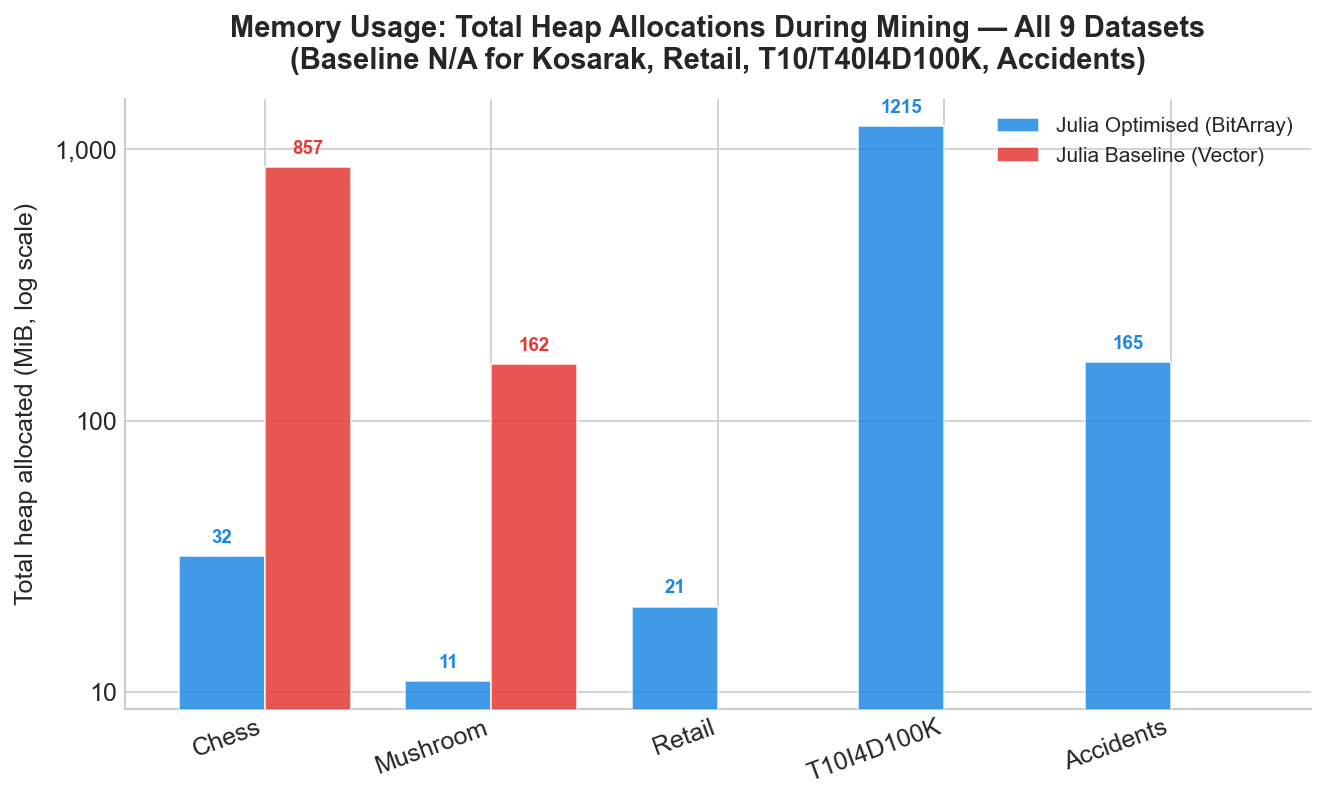
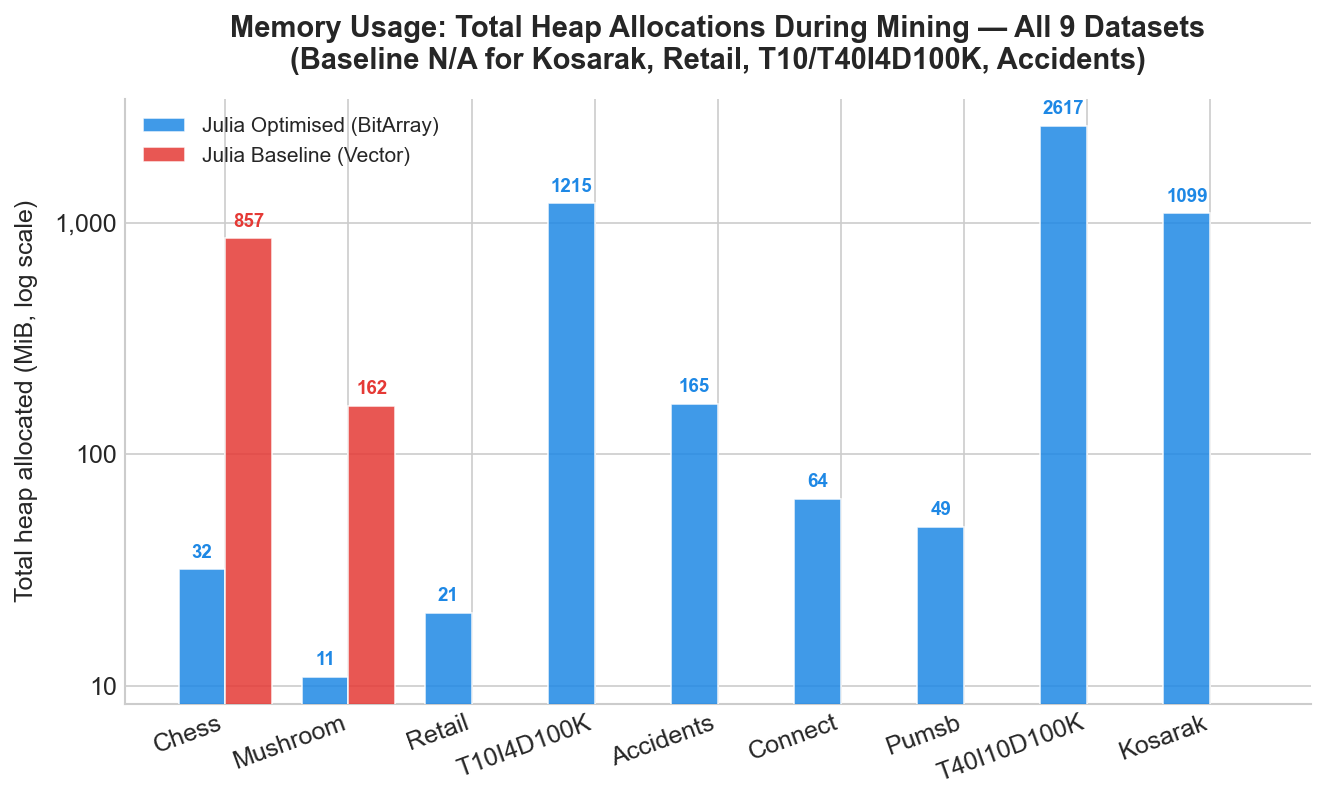
docs: number formulas, add Hypercube code, fill memory benchmark for Connect/Pumsb/T40I10D100K/Kosarak
Address advisor feedback on the LCMFreq slide deck: equation-number all
genuine math formulas and add a real code snippet for HypercubeDecomposition
where only the diagram existed before. Also run the missing memory-usage
benchmark rows and regenerate the memory chart from the completed CSV.

diff --git a/slide/new_slides.tex b/slide/new_slides.tex
@@ -43,14 +43,31 @@
 \setbeamercolor{block body alerted}{bg=accent!6}
 \setbeamercolor{palette primary}{bg=deepblue}
 \setbeamerfont{title}{size=\Large,series=\bfseries}
+\setbeamerfont{subtitle}{size=\small}
+\setbeamerfont{author}{size=\small}
+\setbeamerfont{institute}{size=\footnotesize}
+\setbeamerfont{date}{size=\footnotesize}
 \setbeamerfont{frametitle}{size=\normalsize,series=\bfseries}
 \metroset{sectionpage=progressbar}
+\setbeamertemplate{title page}{%
+  \vspace*{0.7cm}
+  {\usebeamerfont{title}\usebeamercolor[fg]{title}\inserttitle\par}
+  \vspace{0.35cm}
+  {\usebeamerfont{subtitle}\usebeamercolor[fg]{subtitle}\insertsubtitle\par}
+  \vspace{0.55cm}
+  {\usebeamerfont{author}\insertauthor\par}
+  \vspace{0.2cm}
+  {\usebeamerfont{institute}\insertinstitute\par}
+  \vspace{0.2cm}
+  {\usebeamerfont{date}\insertdate\par}
+}
 
 % ---- Macros ----------------------------------------------------------
 \newcommand{\hl}[1]{\textcolor{accent}{\textbf{#1}}}
 \newcommand{\key}[1]{\textcolor{deepblue}{\textbf{#1}}}
 \newcommand{\tc}[1]{\textcolor{teal}{#1}}
 \newcommand{\opt}[1]{\textcolor{optgreen}{\textbf{#1}}}
+\newcommand{\tikzmark}[1]{\tikz[remember picture,overlay,baseline]\coordinate (#1);}
 
 % ---- Listings --------------------------------------------------------
 \lstdefinelanguage{JuliaLite}{
@@ -66,6 +83,7 @@
   commentstyle=\color{black!50},
   stringstyle=\color{teal},
   columns=fullflexible,
+  escapeinside={(*@}{@*)},
   keepspaces=true,
   showstringspaces=false,
   frame=single,
@@ -104,7 +122,7 @@
 
 \begin{frame}{Nội dung trình bày}
   \setbeamertemplate{section in toc}[sections numbered]
-  \tableofcontents[hideallsubsections]
+  {\scriptsize\tableofcontents[hideallsubsections]}
 \end{frame}
 
 % ===================================================================
@@ -244,6 +262,7 @@ BackTracking(P):
 
 \begin{frame}{Ba kỹ thuật của LCMFreq trên khung Backtracking}
   \centering
+  \resizebox{0.92\linewidth}{!}{%
   \begin{tikzpicture}[font=\footnotesize, node distance=0.5cm]
     \node[box=deepblue,minimum width=2.2cm] (p) at (0,0) {$P$};
     \node<2->[boxt={teal}{teal!12},minimum width=2.6cm,right=1.4cm of p] (bucket)
@@ -256,10 +275,10 @@ BackTracking(P):
     \draw<2->[arrow=teal] (p) -- node[above]{\scriptsize Occ.Deliver} (bucket);
     \draw<3->[arrow=skyblue] (bucket) -- node[above]{\scriptsize cùng support} (h);
     \draw<4->[arrow=optgreen] (h) -- node[above]{\scriptsize Hypercube} (out);
-  \end{tikzpicture}
+  \end{tikzpicture}}
 
-  \vspace{0.6em}
-  \begin{itemize}
+  \vspace{0.05em}
+  \begin{itemize}\setlength\itemsep{0.15em}
     \item \key{1. Backtracking}: prefix $P$, chỉ thêm $e>\mathrm{tail}(P)$.
     \item<2-> \tc{2. OccurrenceDeliver}: duyệt $\mathcal T(P)$ một lần, rải vào bucket
       của mọi candidate cùng lúc.
@@ -273,10 +292,10 @@ BackTracking(P):
 % ===================================================================
 
 \begin{frame}{Down project: giao hai danh sách TID bằng hai con trỏ}
-  \[
+  \begin{equation}
     \mathcal T(P_1\cup P_2)=\mathcal T(P_1)\cap\mathcal T(P_2)
     \quad\text{tính trong } O(|\mathcal T(P_1)|+|\mathcal T(P_2)|)
-  \]
+  \end{equation}
   \centering
   \begin{tikzpicture}[font=\small]
     % T1 row
@@ -291,17 +310,17 @@ BackTracking(P):
     }
     % output row placeholder
     \node[font=\scriptsize\bfseries] at (-1.0,-1.85) {Giao};
-    \node<2->[bucket,minimum width=1.6cm] (o3) at (1.35,-1.85) {3};
-    \node<3->[bucket,minimum width=1.6cm] (o5) at (2.7,-1.85) {5};
-    \node<5->[bucket,minimum width=1.6cm] (o9) at (5.4,-1.85) {9};
+    \node<2->[bucket,minimum width=1.05cm] (o3) at (1.10,-1.85) {3};
+    \node<3->[bucket,minimum width=1.05cm] (o5) at (2.75,-1.85) {5};
+    \node<5->[bucket,minimum width=1.05cm] (o9) at (4.40,-1.85) {9};
 
     % pointers i,j: exact-slide so each step shows only current position
-    \node<1>[ptr] at (0,1.05) {$\blacktriangle$}; \node<1>[ptr] at (0,-0.9) {$\blacktriangledown$};
-    \node<2>[ptr] at (1.35,1.05) {$\blacktriangle$}; \node<2>[ptr] at (0,-0.9) {$\blacktriangledown$};
-    \node<3>[ptr] at (2.7,1.05) {$\blacktriangle$}; \node<3>[ptr] at (1.35,-0.9) {$\blacktriangledown$};
-    \node<4>[ptr] at (4.05,1.05) {$\blacktriangle$}; \node<4>[ptr] at (2.7,-0.9) {$\blacktriangledown$};
-    \node<5>[ptr] at (4.05,1.05) {$\blacktriangle$}; \node<5>[ptr] at (4.05,-0.9) {$\blacktriangledown$};
-    \node<6>[ptr] at (5.4,1.05) {$\blacktriangle$}; \node<6>[ptr] at (4.05,-0.9) {$\blacktriangledown$};
+    \node<1>[ptr] at (0,0.82) {$\blacktriangle$}; \node<1>[ptr] at (0,-1.12) {$\blacktriangledown$};
+    \node<2>[ptr] at (1.35,0.82) {$\blacktriangle$}; \node<2>[ptr] at (0,-1.12) {$\blacktriangledown$};
+    \node<3>[ptr] at (2.7,0.82) {$\blacktriangle$}; \node<3>[ptr] at (1.35,-1.12) {$\blacktriangledown$};
+    \node<4>[ptr] at (4.05,0.82) {$\blacktriangle$}; \node<4>[ptr] at (2.7,-1.12) {$\blacktriangledown$};
+    \node<5>[ptr] at (4.05,0.82) {$\blacktriangle$}; \node<5>[ptr] at (4.05,-1.12) {$\blacktriangledown$};
+    \node<6>[ptr] at (5.4,0.82) {$\blacktriangle$}; \node<6>[ptr] at (4.05,-1.12) {$\blacktriangledown$};
   \end{tikzpicture}
 
   \vspace{0.4em}
@@ -321,11 +340,11 @@ BackTracking(P):
 \begin{frame}{Vấn đề khi áp dụng down project cho Backtracking}
   Backtracking luôn thêm \emph{đúng một item} mỗi lượt $\Rightarrow$ cặp tách
   duy nhất khả dụng là $P_1=P$, $P_2=\{e\}$. Với $k$ candidate $e>\mathrm{tail}(P)$:
-  \[
+  \begin{equation}
     O\!\left(\sum_{e>\mathrm{tail}(P)} \bigl(|\mathcal T(P)|+|\mathcal T(\{e\})|\bigr)\right)
-  \]
+  \end{equation}
   \centering
-  \begin{tikzpicture}[font=\scriptsize]
+  \begin{tikzpicture}[font=\scriptsize,scale=0.82,transform shape]
     \foreach \name/\x/\h/\col in {B/0/1.6/skyblue, C/1.6/1.4/teal, D/3.2/1.2/accent} {
       \draw[fill=\col!20,draw=\col] (\x,0) rectangle (\x+1.2,\h);
       \node at (\x+0.6,\h+0.25) {$|T(P)|{+}|T(\{\name\})|$};
@@ -351,9 +370,10 @@ OccurrenceDeliver(D, P):
           insert t into Bucket[e]
   # Bucket[e] = T(P union {e})
 \end{lstlisting}
-      \small\[
+      \small
+      \begin{equation}
         O\!\Bigl(|\mathcal T(P)|+\!\!\sum_{e>\mathrm{tail}(P)}\!\!|\mathcal T(P\cup\{e\})|\Bigr)
-      \]
+      \end{equation}
     \end{column}
     \begin{column}{0.55\textwidth}
       \centering
@@ -383,11 +403,11 @@ OccurrenceDeliver(D, P):
 
 \begin{frame}{Bất biến sau khi deliver}
   \begin{block}{Bất biến cần nhớ}
-    \[
+    \begin{equation}
       \mathrm{Bucket}[e]=\{t\in\mathcal T(P): e\in t\}=\mathcal T(P\cup\{e\})
       \quad\Rightarrow\quad
       \mathrm{sup}(P\cup\{e\})=|\mathrm{Bucket}[e]|
-    \]
+    \end{equation}
   \end{block}
   \small Bucket \emph{là} denotation của $P\cup\{e\}$ — dùng được ngay cho:
   kiểm tra minsup, đệ quy tiếp, và (slide sau) phát hiện item miễn phí trong
@@ -407,20 +427,34 @@ OccurrenceDeliver(D, P):
 \section{HypercubeDecomposition}
 % ===================================================================
 
-\begin{frame}{$H(P)$: item miễn phí và xuất theo lô}
+\begin{frame}[fragile]{$H(P)$: item miễn phí và xuất theo lô}
   \begin{block}{Định nghĩa (Uno et al., 2004, Mục 3.3)}
     \small $H(P)=\{e>\mathrm{tail}(P): \mathcal T(P)=\mathcal T(P\cup\{e\})\}$.
     Kiểm tra $e\in H(P)$ chỉ cần so độ dài: $|\mathrm{Bucket}[e]|=|\mathcal T(P)|$
     — \emph{đã có sẵn} sau OccurrenceDeliver.
   \end{block}
 
-  \centering
-  \begin{tikzpicture}[font=\scriptsize, node distance=0.5cm]
-    \node[box=deepblue,minimum width=2.4cm] (p) {$P$, $S'=S\cup H(P)$};
-    \node<2->[box=optgreen,minimum width=5.6cm,below=0.7cm of p]
-      {Với mọi $Q\subseteq S'$: $P\cup Q$ frequent, $\mathrm{sup}=\mathrm{sup}(P)$\\
-       $\Rightarrow$ xuất $2^{|S'|}$ itemset trong \textbf{một} lượt};
-  \end{tikzpicture}
+  \begin{columns}[T,onlytextwidth]
+    \begin{column}{0.46\textwidth}
+\begin{lstlisting}
+H = filter(e ->
+    length(Bucket[e]) == support_P,
+    F)
+S_prime = S union H
+for Q subset of S_prime:
+    output P union Q with support_P
+\end{lstlisting}
+    \end{column}
+    \begin{column}{0.50\textwidth}
+      \centering
+      \begin{tikzpicture}[font=\scriptsize, node distance=0.5cm]
+        \node[box=deepblue,minimum width=2.4cm] (p) {$P$, $S'=S\cup H(P)$};
+        \node<2->[box=optgreen,minimum width=4.6cm,below=0.7cm of p]
+          {Với mọi $Q\subseteq S'$: $P\cup Q$ frequent\\
+           $\Rightarrow$ xuất $2^{|S'|}$ itemset trong \textbf{một} lượt};
+      \end{tikzpicture}
+    \end{column}
+  \end{columns}
 
   \vspace{0.4em}
   \onslide<3->{\centering\small\textit{``This saves about $2^{|H(P)|}$ times
@@ -454,22 +488,41 @@ OccurrenceDeliver(D, P):
     \begin{column}{0.62\textwidth}
 \begin{lstlisting}
 LCMFreqBase(P, tids_P, F, S):
-    support_P = length(tids_P)
+(*@\tikzmark{lcmODstart}@*)    support_P = length(tids_P)
     Bucket[e] = [] for each e in F
     for tid in tids_P:                  # OccDeliver
         for item in transaction[tid]:
             if item in F:
-                push tid into Bucket[item]
+                push tid into Bucket[item](*@\tikzmark{lcmODend}@*)
 
-    H = {e in F : length(Bucket[e]) == support_P}
-    S_prime = S union H                  # Hypercube
-    for Q subset of S_prime:
-        output P union Q with support_P
+(*@\tikzmark{lcmHstart}@*)    H = {e in F : length(Bucket[e]) == support_P}
+    S_prime = S union H                  # Hypercube(*@\tikzmark{lcmHend}@*)
 
-    for e in F, e > tail(P), e not in S_prime:
+(*@\tikzmark{lcmOUTstart}@*)    for Q subset of S_prime:
+        output P union Q with support_P(*@\tikzmark{lcmOUTend}@*)
+
+(*@\tikzmark{lcmRECstart}@*)    for e in F, e > tail(P), e not in S_prime:
         if length(Bucket[e]) >= minsup:
-            LCMFreqBase(P+{e}, Bucket[e], F_next, S_prime)
+            LCMFreqBase(P+{e}, Bucket[e], F_next, S_prime)(*@\tikzmark{lcmRECend}@*)
 \end{lstlisting}
+      \begin{tikzpicture}[remember picture,overlay]
+        \coordinate (lcmODright) at ($(lcmODstart)+(0.97\linewidth,0)$);
+        \coordinate (lcmODbottom) at ($(lcmODend)+(0,-0.45ex)$);
+        \coordinate (lcmHright) at ($(lcmHstart)+(0.97\linewidth,0)$);
+        \coordinate (lcmHbottom) at ($(lcmHend)+(0,-0.45ex)$);
+        \coordinate (lcmOUTright) at ($(lcmOUTstart)+(0.97\linewidth,0)$);
+        \coordinate (lcmOUTbottom) at ($(lcmOUTend)+(0,-0.45ex)$);
+        \coordinate (lcmRECright) at ($(lcmRECstart)+(0.97\linewidth,0)$);
+        \coordinate (lcmRECbottom) at ($(lcmRECend)+(0,-0.45ex)$);
+        \draw<1->[rounded corners=2pt,draw=teal,line width=0.9pt]
+          ($(lcmODstart)+(-0.45em,1.15ex)$) rectangle (lcmODright |- lcmODbottom);
+        \draw<2->[rounded corners=2pt,draw=skyblue,line width=0.9pt]
+          ($(lcmHstart)+(-0.45em,1.15ex)$) rectangle (lcmHright |- lcmHbottom);
+        \draw<3->[rounded corners=2pt,draw=optgreen,line width=0.9pt]
+          ($(lcmOUTstart)+(-0.45em,1.15ex)$) rectangle (lcmOUTright |- lcmOUTbottom);
+        \draw<4->[rounded corners=2pt,draw=accent,line width=0.9pt]
+          ($(lcmRECstart)+(-0.45em,1.15ex)$) rectangle (lcmRECright |- lcmRECbottom);
+      \end{tikzpicture}
     \end{column}
     \begin{column}{0.34\textwidth}
       \small\textbf{Nhịp chạy tại node $P$}:
@@ -514,7 +567,7 @@ LCMFreqBase(P, tids_P, F, S):
 
 \begin{frame}{Cây đệ quy trên ví dụ (theo đúng thứ tự DFS)}
   \centering
-  \resizebox{0.98\linewidth}{!}{%
+  \resizebox{0.78\linewidth}{!}{%
   \begin{tikzpicture}[font=\scriptsize]
     \node[box=deepblue,minimum width=3.2cm] (root) at (0,0)
       {$P=\emptyset$, sup=5\\\opt{$\{B\}{:}5$}};
@@ -545,7 +598,7 @@ LCMFreqBase(P, tids_P, F, S):
     \draw<8->[arrow=deepblue] (root) -- node[above right]{$D$} (D);
   \end{tikzpicture}}
 
-  \vspace{0.15em}
+  \vspace{0.05em}
   \onslide<8->{\footnotesize\color{black!55} Chỉ 7 node thật sự
   ($\emptyset,A,C,D,AC,AD,CD,ACD$); 8 itemset chứa $B$ được xuất kèm bằng
   Hypercube, không tốn nhánh đệ quy riêng.}
@@ -664,10 +717,10 @@ end
 \end{frame}
 
 \begin{frame}{Độ phức tạp và yếu tố ảnh hưởng}
-  \[
+  \begin{equation}
     \text{Chi phí node } P:\quad O\!\Bigl(\sum_{T\in\mathcal T(P)} |T\cap F|\Bigr)
     \qquad\text{(không duyệt lại như down project)}
-  \]
+  \end{equation}
   LCMFreq là \hl{output-sensitive}: thời gian gắn với số kết quả phải xuất.
   \vspace{0.3em}
   \centering\small
@@ -786,10 +839,10 @@ end
 
 \begin{frame}{Sinh luật kết hợp từ kết quả LCMFreq}
   Với itemset $X$ frequent, $Y\subset X$:
-  \[
+  \begin{equation}
     \mathrm{conf}(Y\Rightarrow X\setminus Y)=\frac{\mathrm{sup}(X)}{\mathrm{sup}(Y)}\geq\text{minconf},
     \qquad \mathrm{lift}>1 \Rightarrow \text{đồng xuất hiện nhiều hơn ngẫu nhiên}.
-  \]
+  \end{equation}
   \small Retail (88\,162 giao dịch): minsup$=0.5\%$ ($\sigma=441$) $\to$ 580
   frequent itemset; minconf$=60\%$ $\to$ 312 association rule.
 